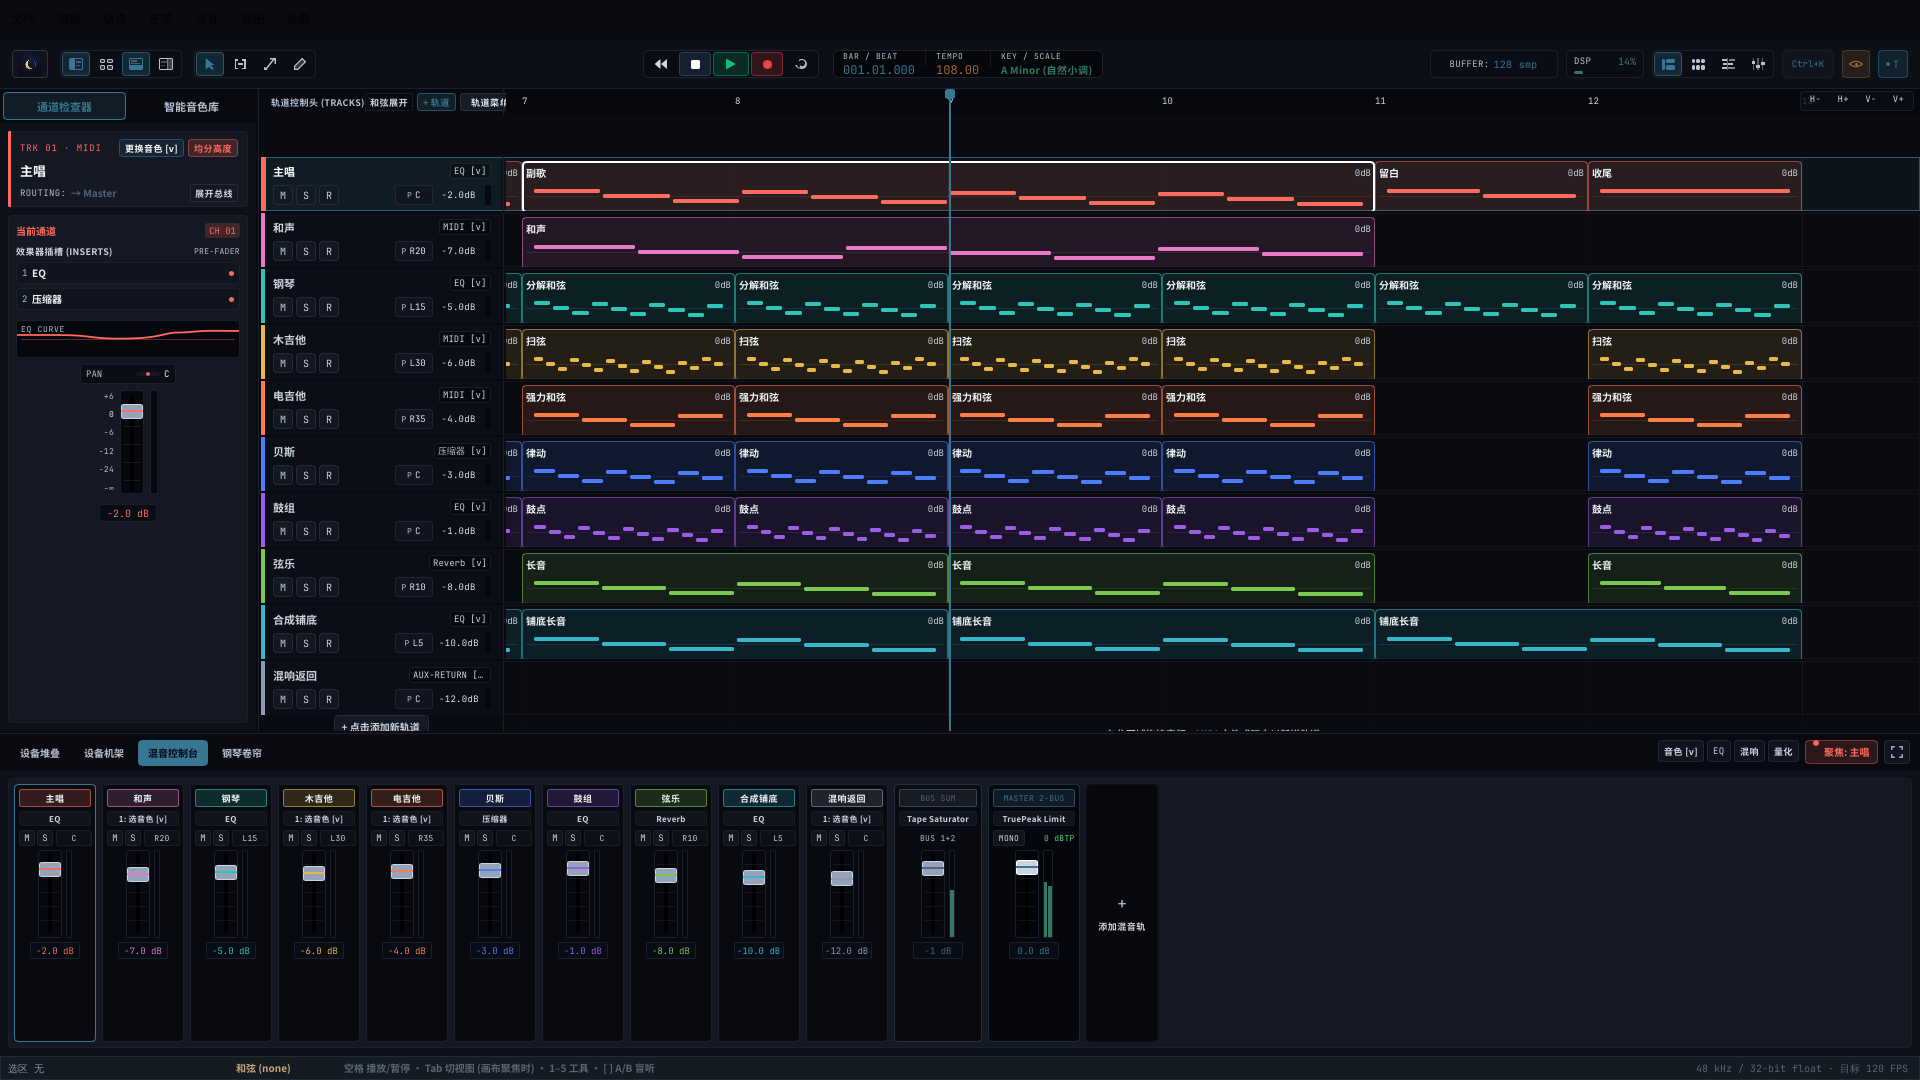
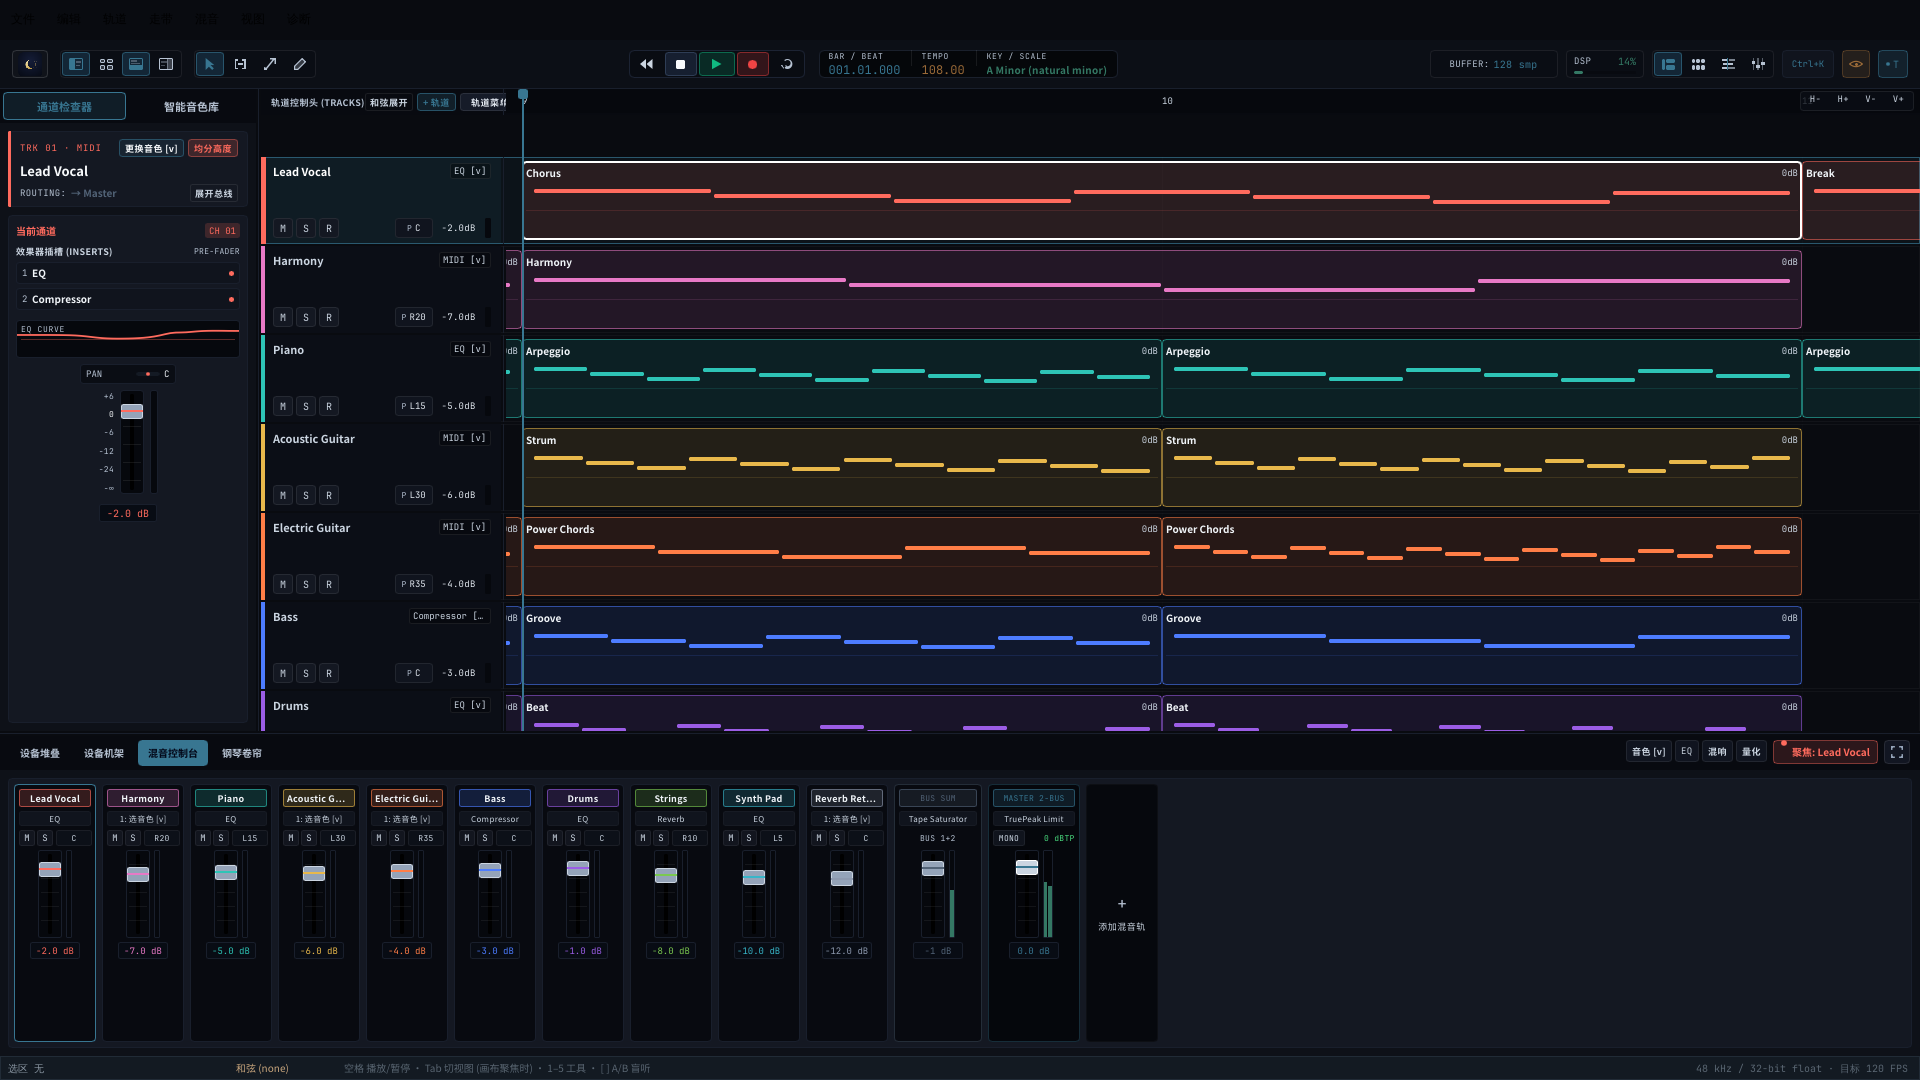
site: 界面截图换第五轮（编曲疏密重做、放大构图、英文数据名），图注同步改实

diff --git a/public/index.html b/public/index.html
@@ -130,8 +130,8 @@
         <p data-i18n="ui.subtitle">一个 10 轨流行歌工程：主唱、和声、钢琴、吉他、贝斯、鼓组、弦乐与合成铺底</p>
       </header>
       <figure class="shot">
-        <img src="/assets/shots/ui-full-song.png" width="1920" height="1080" loading="lazy" data-i18n-attr="alt:ui.shot1_alt" alt="全曲编曲总览：完整 12 小节段落结构，底部钢琴卷帘显示钢琴轨的分解和弦">
-        <figcaption data-i18n="ui.shot1_caption">全曲总览——12 小节完整段落结构，钢琴卷帘打开钢琴轨</figcaption>
+        <img src="/assets/shots/ui-full-song.png" width="1920" height="1080" loading="lazy" data-i18n-attr="alt:ui.shot1_alt" alt="编曲放大视图：主歌后段至副歌，段落疏密对比可见，底部钢琴卷帘显示钢琴轨的分解和弦">
+        <figcaption data-i18n="ui.shot1_caption">放大编曲视图——主歌至副歌的疏密对比，钢琴卷帘打开钢琴轨</figcaption>
       </figure>
       <figure class="shot">
         <img src="/assets/shots/ui-arrangement-chorus.png" width="1920" height="1080" loading="lazy" data-i18n-attr="alt:ui.shot2_alt" alt="编曲主视图：副歌段，底部钢琴卷帘，左通道检查器显示真实 EQ 曲线">
